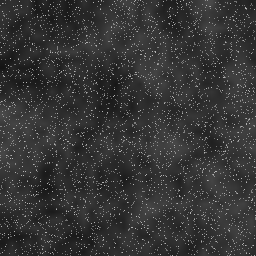
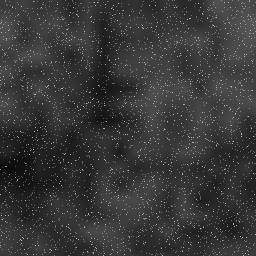
feat(palette-a): cabinet face shows live Koala Quant figures, counting up; inked writing
- Since launch, 7 / 30 days, max drawdown, NAV, last settled day, days running, the
  7-day trend and the month's daily results come from the public product (last known
  figures until it loads); figures count up as they appear.
- Printed dock uses the app's own quant icon (candlestick), in ink.
- Writing sits in the paper: fibre displacement, softened to the photo, a faint bleed,
  uneven pressure.

diff --git a/components/screens/CabinetFace.tsx b/components/screens/CabinetFace.tsx
@@ -1,8 +1,10 @@
 'use client'
 
 import { useEffect, useLayoutEffect, useRef, useState } from 'react'
-import { ChartColumn, ChartPie, ChevronLeft, ChevronRight, House, Wifi } from 'lucide-react'
+import { ChartCandlestick, ChartNoAxesColumnIncreasing, ChartPie, ChevronLeft, ChevronRight, House, Wifi } from 'lucide-react'
 import type { AppLocale } from '@/lib/i18n'
+import { useQuantProducts, type QuantProduct } from '@/lib/api/quant'
+import { localToday } from '@/lib/quant-view-model'
 import RwaLogoMark from '../rwa-logo'
 import styles from './P02-Login.module.css'
 
@@ -33,6 +35,46 @@ function quadMatrix(q: [number, number][], W: number, H: number) {
   return `matrix3d(${a / W},${d / W},0,${g / W},${b / H},${e / H},0,${h / H},0,0,1,0,${x0},${y0},0,1)`
 }
 
+/** What the face shows, from the live product (public, no account needed). Until it loads, the last known figures. */
+type View = { since: number; d7: number; d30: number; dd: number; nav: number; navDate: string; today: string; days: number; daily: Map<string, number>; chart: { date: string; index: number }[] }
+const SNAPSHOT: View = {
+  since: 17.26, d7: 3, d30: 16.71, dd: -0.08, nav: 1.1726, navDate: '2026-10-20', today: '2026-10-25', days: 31, daily: new Map(),
+  chart: [1.138, 1.142, 1.149, 1.151, 1.158, 1.165, 1.1726].map((index, i) => ({ date: `2026-10-${14 + i}`, index })),
+}
+function quantView(product: QuantProduct | undefined): View {
+  if (!product) return SNAPSHOT
+  const p = product.performance
+  const history = [...product.history].sort((a, b) => a.tradeDate.localeCompare(b.tradeDate))
+  const chart = history.slice(-7).map(point => ({ date: point.tradeDate, index: Number(point.indexAfter) }))
+  return {
+    since: p.sinceInceptionPct ?? 0, d7: p.last7d.pct ?? 0, d30: p.last30d.pct ?? 0, dd: p.maxDrawdownPct ?? 0,
+    nav: Number(p.index), navDate: p.lastSettledDate ?? '', today: localToday(product.timezone), days: p.days,
+    daily: new Map(history.map(point => [point.tradeDate, Number(point.netReturnPct)])),
+    chart: chart.length > 1 ? chart : SNAPSHOT.chart,
+  }
+}
+
+/** Counts up from zero to a figure whenever `run` turns on or the figure changes (eased, about a second and a half). */
+function useCount(target: number, run = true, ms = 1400) {
+  const [value, setValue] = useState(0)
+  useEffect(() => {
+    if (!run) return
+    if (matchMedia('(prefers-reduced-motion: reduce)').matches) { setValue(target); return }
+    let frame = 0
+    const start = performance.now()
+    const step = (now: number) => {
+      const t = Math.min(1, (now - start) / ms)
+      setValue(target * (1 - Math.pow(1 - t, 3)))
+      if (t < 1) frame = requestAnimationFrame(step)
+    }
+    frame = requestAnimationFrame(step)
+    return () => cancelAnimationFrame(frame)
+  }, [target, run, ms])
+  return value
+}
+const signed = (value: number, digits = 2) => `${value >= .005 ? '+' : value <= -.005 ? '-' : ''}${Math.abs(value).toFixed(digits)}%`
+const monthDay = (date: string) => date.slice(5)
+
 const polar = (r: number, deg: number, cx = 100, cy = 104) => {
   const a = ((deg - 90) * Math.PI) / 180
   return [cx + Math.cos(a) * r, cy + Math.sin(a) * r].map(v => v.toFixed(1))
@@ -50,8 +92,9 @@ const TRACK = Array.from({ length: 120 }, (_, i) => {
   return `M${x1} ${y1} L${x2} ${y2}`
 }).join(' ')
 
-/** The Koala Quant watch, in ink, with its registers ticking and a marker running round the ring. Figures as in the app. */
-function DialDrawing({ zh }: { zh: boolean }) {
+/** The Koala Quant watch, in ink, with its registers ticking, a marker running round the ring and the live figures. */
+function DialDrawing({ zh, view }: { zh: boolean; view: View }) {
+  const since = useCount(view.since), d7 = useCount(view.d7), d30 = useCount(view.d30), dd = useCount(view.dd)
   return <svg className={styles.kDial} viewBox="0 0 200 204" aria-hidden="true">
     <path d="M93 0 h14 v9 h-14 Z M96 3 v3 M100 3 v3 M104 3 v3 M97 9 v6 M103 9 v6" />
     <path d="M166 30 l8 -8 l6 6 l-8 8 Z M168 38 l-4 4" />
@@ -62,91 +105,103 @@ function DialDrawing({ zh }: { zh: boolean }) {
     <circle cx="100" cy="104" r="62" opacity=".55" /><circle cx="100" cy="104" r="58" strokeDasharray="1.2 2.6" opacity=".45" />
     <circle cx="100" cy="36" r="6" /><path d="M97 34 h6 l-3 4 Z" />
     <rect x="64" y="51" width="72" height="23" rx="3" /><rect x="66.5" y="53.5" width="67" height="18" rx="2" opacity=".4" />
-    <text x="100" y="68" textAnchor="middle" className={styles.kMono}>+17.26%</text>
+    <text x="100" y="68" textAnchor="middle" className={styles.kMono}>{signed(since)}</text>
     <text x="100" y="83" textAnchor="middle" className={styles.kTiny}>{zh ? '成立以来' : 'SINCE LAUNCH'}</text>
     <text x="100" y="97" textAnchor="middle" className={styles.kName}>{zh ? '考 拉 量 化' : 'KOALA QUANT'}</text>
     <circle cx="66" cy="124" r="19" /><circle cx="66" cy="124" r="15" strokeDasharray="1 2.4" opacity=".6" />
     <g className={styles.kNeedleA}><path d="M66 124 L72 110" /></g><circle cx="66" cy="124" r="1.6" className={styles.kFill} />
     <text x="66" y="113" textAnchor="middle" className={styles.kTiny}>{zh ? '7日' : '7D'}</text>
-    <text x="66" y="136" textAnchor="middle" className={styles.kMonoS}>+3.00%</text>
+    <text x="66" y="136" textAnchor="middle" className={styles.kMonoS}>{signed(d7)}</text>
     <circle cx="134" cy="124" r="19" /><circle cx="134" cy="124" r="15" strokeDasharray="1 2.4" opacity=".6" />
     <g className={styles.kNeedleB}><path d="M134 124 L124 113" /></g><circle cx="134" cy="124" r="1.6" className={styles.kFill} />
     <text x="134" y="113" textAnchor="middle" className={styles.kTiny}>{zh ? '30日' : '30D'}</text>
-    <text x="134" y="136" textAnchor="middle" className={styles.kMonoS}>+16.71%</text>
+    <text x="134" y="136" textAnchor="middle" className={styles.kMonoS}>{signed(d30)}</text>
     <text x="100" y="116" textAnchor="middle" className={styles.kTiny}>{zh ? '最大回撤' : 'MAX DD'}</text>
     <path d="M90 132 a10 10 0 0 1 20 0" /><g className={styles.kNeedleC}><path d="M100 132 L93 128" /></g><circle cx="100" cy="132" r="1.4" className={styles.kFill} />
-    <text x="100" y="141" textAnchor="middle" className={styles.kMonoS}>-0.08%</text>
-    <rect x="74" y="147" width="52" height="13" rx="2" /><text x="100" y="156.5" textAnchor="middle" className={styles.kMonoS}>2026.10.25</text>
+    <text x="100" y="141" textAnchor="middle" className={styles.kMonoS}>{signed(dd)}</text>
+    <rect x="74" y="147" width="52" height="13" rx="2" /><text x="100" y="156.5" textAnchor="middle" className={styles.kMonoS}>{view.today.split('-').join('.')}</text>
     <circle cx="64" cy="153.5" r="5" /><path d="M65.5 151 l-2.5 2.5 l2.5 2.5" /><circle cx="136" cy="153.5" r="5" opacity=".5" />
   </svg>
 }
 
-type KCopy = { title: string; overview: string; mine: string; principal: string; daily: string; pending: string; notYet: string; nav: string; days: [string, string, string]; quant: string; week: string[]; due: string }
+type KCopy = { title: string; overview: string; mine: string; nav: string; latest: string; settled: string; running: string; dayUnit: string; days: [string, string, string]; quant: string; week: string[]; due: string }
 const K: Record<'zh' | 'en', KCopy> = {
-  zh: { title: '考拉量化', overview: '总览', mine: '我的', principal: '当前本金 USDT', daily: '最近一日净收益', pending: '待处理', notYet: '尚未开始结算', nav: '净值走势', days: ['7天', '30天', '全部'], quant: '量化',
+  zh: { title: '考拉量化', overview: '总览', mine: '我的', nav: '净值走势', latest: '最新净值', settled: '最近结算', running: '已运行', dayUnit: '天', days: ['7天', '30天', '全部'], quant: '量化',
     week: ['一', '二', '三', '四', '五', '六', '日'], due: '待结算' },
-  en: { title: 'Koala Quant', overview: 'Overview', mine: 'Mine', principal: 'Principal USDT', daily: 'Last day net', pending: 'Pending', notYet: 'Not settled yet', nav: 'NAV trend', days: ['7D', '30D', 'All'], quant: 'Quant',
+  en: { title: 'Koala Quant', overview: 'Overview', mine: 'Mine', nav: 'NAV trend', latest: 'Latest NAV', settled: 'Last settled', running: 'Running', dayUnit: 'days', days: ['7D', '30D', 'All'], quant: 'Quant',
     week: ['M', 'T', 'W', 'T', 'F', 'S', 'S'], due: 'Due' },
 }
 
-/** October 2026 as the app's earnings calendar shows it: daily results to the 20th, the 25th waiting to settle. */
-const OCT: (string | null)[] = ['+0.91', '+0.06', '-0.04', '+0.83', '+0.97', '+0.16', '+0.82', '+0.05', '+0.05', '+0.93', '+0.97', '-0.04', '+0.30', '+0.82',
-  '+0.04', '+0.51', '+0.02', '+0.71', '+0.37', '+0.50', null, null, null, null, null, null, null, null, null, null, null]
-
-function Calendar({ k }: { k: KCopy }) {
+/** The month of today (product timezone), as the app's earnings calendar draws it: each settled day's net result, a dash
+ * for an ended day without one, today waiting to settle, later days pale. */
+function Calendar({ k, view }: { k: KCopy; view: View }) {
+  const [year, month] = view.today.split('-').map(Number)
+  const lead = (new Date(Date.UTC(year, month - 1, 1)).getUTCDay() + 6) % 7
+  const count = new Date(Date.UTC(year, month, 0)).getUTCDate()
+  const today = Number(view.today.slice(8))
   return <div className={styles.kCal}>
-    <div className={styles.kCalHead}><ChevronLeft strokeWidth={1.6} /><b>2026 <i>/</i> 10</b><ChevronRight strokeWidth={1.6} opacity={.4} /></div>
+    <div className={styles.kCalHead}><ChevronLeft strokeWidth={1.6} /><b>{year} <i>/</i> {month}</b><ChevronRight strokeWidth={1.6} opacity={.4} /></div>
     <div className={styles.kCalWeek}>{k.week.map((d, i) => <span key={i}>{d}</span>)}</div>
     <div className={styles.kCalDays}>
-      {[0, 1, 2].map(i => <span key={`e${i}`} />)}
-      {OCT.map((v, i) => {
+      {Array.from({ length: lead }, (_, i) => <span key={`e${i}`} />)}
+      {Array.from({ length: count }, (_, i) => {
         const day = i + 1
-        if (day === 25) return <span key={day} className={styles.kDue}><b>25</b><small>{k.due}</small></span>
-        return <span key={day} data-off={v === null || undefined}><b>{day}</b><small>{v === null ? (day < 25 ? '–' : '') : `${v}%`}</small></span>
+        const value = view.daily.get(`${view.today.slice(0, 8)}${String(day).padStart(2, '0')}`)
+        if (day === today) return <span key={day} className={styles.kDue}><b>{day}</b><small>{k.due}</small></span>
+        return <span key={day} data-off={value === undefined || undefined}><b>{day}</b><small>{value !== undefined ? signed(value) : day < today ? '–' : ''}</small></span>
       })}
     </div>
   </div>
 }
 
 /**
- * The Koala Quant page as in the app, written onto the cabinet's face in the guide's ink; only the logo keeps its
- * colours. The overview / mine key stands off the face, and every few seconds it slides over: Mine shows the
- * earnings calendar, Overview the figures and the trend. The registers tick and a marker runs round the ring.
+ * The Koala Quant page as in the app, written onto the cabinet's face in the guide's ink, with the product's live
+ * figures (they count up as they appear); only the logo keeps its colours. The overview / mine key stands off the
+ * face, and every few seconds it slides over: Mine shows the earnings calendar, Overview the figures and the trend.
  */
 function KoalaPrint({ locale }: { locale: AppLocale }) {
   const k = K[locale === 'zh-CN' ? 'zh' : 'en']
+  const products = useQuantProducts()
+  const view = quantView(products.data?.[0])
   const [tab, setTab] = useState(0)
   useEffect(() => {
     if (matchMedia('(prefers-reduced-motion: reduce)').matches) return
     const timer = setInterval(() => setTab(value => 1 - value), 5200)
     return () => clearInterval(timer)
   }, [])
+  const nav = useCount(view.nav, tab === 0, 1200), days = useCount(view.days, tab === 0, 1200)
+  const ys = view.chart.map(point => point.index)
+  const lo = Math.min(...ys), hi = Math.max(...ys), span = hi - lo || 1
+  const pts = view.chart.map((point, i) => [24 + (192 * i) / (view.chart.length - 1), 76 - ((point.index - lo) / span) * 62] as const)
+  const line = pts.map(([x, y], i) => `${i ? 'L' : 'M'}${x.toFixed(1)} ${y.toFixed(1)}`).join(' ')
+  const end = pts[pts.length - 1]
+  const labels = [0, Math.floor((pts.length - 1) / 2), pts.length - 1].filter((i, n, all) => all.indexOf(i) === n)
   return <div className={styles.kPrint} data-tab={tab}>
     <div className={`${styles.kInk} ${styles.kStatus}`}><b><Clock /></b><span><i className={styles.kSig}><i /><i /><i /><i /></i><Wifi strokeWidth={2.2} /><i className={styles.kBatt}><i /></i></span></div>
     <div className={`${styles.kInk} ${styles.kHead}`}><RwaLogoMark width={30} height={17} label="" /><b>{k.title}</b></div>
-    <div className={styles.kInk}><DialDrawing zh={locale === 'zh-CN'} /></div>
+    <div className={styles.kInk}><DialDrawing zh={locale === 'zh-CN'} view={view} /></div>
     <div className={styles.kSeg}><i className={styles.kKey} /><b className={styles.kInk}>{k.overview}</b><b className={styles.kInk}>{k.mine}</b></div>
     <div className={styles.kPanels}>
       <div className={`${styles.kInk} ${styles.kPanel}`} data-on={tab === 0 || undefined}>
         <div className={styles.kStats}>
-          <span><small>{k.principal}</small><b>3,500.00</b></span>
-          <span><small>{k.daily}</small><b>—</b><small>{k.notYet}</small></span>
-          <span><small>{k.pending}</small><b>0</b></span>
+          <span><small>{k.latest}</small><b>{nav.toFixed(4)}</b></span>
+          <span><small>{k.settled}</small><b>{view.navDate ? monthDay(view.navDate) : '—'}</b></span>
+          <span><small>{k.running}</small><b>{Math.round(days)} <small>{k.dayUnit}</small></b></span>
         </div>
-        <div className={styles.kNavHead}><b>{k.nav}</b><span><small>10-20</small><strong>1.1726</strong></span></div>
+        <div className={styles.kNavHead}><b>{k.nav}</b><span><small>{view.navDate ? monthDay(view.navDate) : ''}</small><strong>{nav.toFixed(4)}</strong></span></div>
         <div className={styles.kDays}><b>{k.days[0]}</b><span>{k.days[1]}</span><span>{k.days[2]}</span></div>
         <svg className={styles.kChart} viewBox="0 0 220 90" aria-hidden="true">
-          <path d="M22 14 H218 M22 44 H218 M22 74 H218" opacity=".2" strokeDasharray="2 3" />
-          <text x="0" y="16">1.173</text><text x="0" y="46">1.156</text><text x="0" y="76">1.138</text>
-          <path className={styles.kArea} d="M24 76 C40 66 52 58 70 60 S100 54 118 50 S146 52 160 42 S196 24 216 14 V80 H24 Z" />
-          <path className={styles.kLine} pathLength={1} d="M24 76 C40 66 52 58 70 60 S100 54 118 50 S146 52 160 42 S196 24 216 14" />
-          <circle cx="216" cy="14" r="3" /><path d="M216 18 V80" strokeDasharray="1.5 2.5" opacity=".6" />
-          <text x="20" y="89">10-13</text><text x="64" y="89">10-15</text><text x="124" y="89">10-17</text><text x="194" y="89">10-20</text>
+          <path d="M22 14 H218 M22 45 H218 M22 76 H218" opacity=".2" strokeDasharray="2 3" />
+          <text x="0" y="16">{hi.toFixed(3)}</text><text x="0" y="47">{((lo + hi) / 2).toFixed(3)}</text><text x="0" y="78">{lo.toFixed(3)}</text>
+          <path className={styles.kArea} d={`${line} V80 H24 Z`} />
+          <path key={`${tab}-${line}`} className={styles.kLine} pathLength={1} d={line} />
+          <circle cx={end[0]} cy={end[1]} r="3" /><path d={`M${end[0]} ${end[1] + 4} V80`} strokeDasharray="1.5 2.5" opacity=".6" />
+          {labels.map(i => <text key={i} x={Math.min(200, pts[i][0] - 8)} y="89">{monthDay(view.chart[i].date)}</text>)}
         </svg>
       </div>
-      <div className={`${styles.kInk} ${styles.kPanel}`} data-on={tab === 1 || undefined}><Calendar k={k} /></div>
+      <div className={`${styles.kInk} ${styles.kPanel}`} data-on={tab === 1 || undefined}><Calendar k={k} view={view} /></div>
     </div>
-    <div className={`${styles.kInk} ${styles.kDock}`}><span><House strokeWidth={1.6} /><ChartColumn strokeWidth={1.6} /><b><RwaLogoMark width={13} height={8} label="" />{k.quant}</b><ChartPie strokeWidth={1.6} /></span><i /></div>
+    <div className={`${styles.kInk} ${styles.kDock}`}><span><House strokeWidth={1.6} /><ChartNoAxesColumnIncreasing strokeWidth={1.6} /><b><ChartCandlestick strokeWidth={1.8} />{k.quant}</b><ChartPie strokeWidth={1.6} /></span><i /></div>
   </div>
 }
 
@@ -178,6 +233,16 @@ export function CabinetScene({ locale, night }: { locale: AppLocale; night: bool
     return () => observer.disconnect()
   }, [])
   return <div className={styles.cabStage} ref={stage} aria-hidden="true">
+    {/* Ink on paper: edges pushed about by the paper's fibres (a noise displacement), softened to the photo's own
+        sharpness, with a faint bleed into the paper around each stroke, so the writing sits in the surface. */}
+    <svg className={styles.cabDefs} aria-hidden="true"><filter id="cab-ink" x="-3%" y="-3%" width="106%" height="106%" colorInterpolationFilters="sRGB">
+      <feTurbulence type="fractalNoise" baseFrequency=".7" numOctaves="2" seed="7" result="fibre" />
+      <feDisplacementMap in="SourceGraphic" in2="fibre" scale="1.7" xChannelSelector="R" yChannelSelector="G" result="pushed" />
+      <feGaussianBlur in="pushed" stdDeviation=".45" result="ink" />
+      <feGaussianBlur in="pushed" stdDeviation="1.4" result="spread" />
+      <feComponentTransfer in="spread" result="bleed"><feFuncA type="linear" slope=".22" /></feComponentTransfer>
+      <feMerge><feMergeNode in="bleed" /><feMergeNode in="ink" /></feMerge>
+    </filter></svg>
     <img className={styles.cabPhoto} src={`${art}.webp`} alt="" draggable={false} />
     <svg className={styles.cabSide} viewBox="0 0 1024 1536" preserveAspectRatio="none">
       <g transform="matrix(.78 .25 0 1 616 196)">

diff --git a/components/screens/P02-Login.module.css b/components/screens/P02-Login.module.css
@@ -748,7 +748,7 @@
 .root[data-auth-theme='cool'] .cabFace { --ink: #c4c7cd; }
 .kPrint { position: absolute; inset: 0; display: flex; flex-direction: column; padding: 16px 24px 0; color: var(--ink);
   font-family: var(--font-geist-sans, system-ui), 'PingFang SC', 'Microsoft YaHei', sans-serif; font-size: 12px; line-height: 1.3; }
-.kInk { mix-blend-mode: multiply; filter: blur(.22px);
+.kInk { mix-blend-mode: multiply; filter: url(#cab-ink);
   -webkit-mask-image: url('/media/palette-a/ink-grain.png'); mask-image: url('/media/palette-a/ink-grain.png'); -webkit-mask-size: 180px; mask-size: 180px; }
 .root[data-auth-theme='cool'] .kInk { mix-blend-mode: screen; }
 .kPrint svg { fill: none; stroke: var(--ink); stroke-width: 1.1; stroke-linecap: round; stroke-linejoin: round; }
@@ -842,3 +842,7 @@
 .cabFoot { display: flex; justify-content: center; align-items: center; gap: 6px; margin-top: 6px; }
 :global(html) .root.root.root[data-auth-cabinet] .cabFoot :is(button, span) { padding: 6px 2px; border: 0; background: none; font: inherit; font-size: 11px; color: rgba(20, 26, 34, .55); cursor: pointer; }
 :global(html) .root.root.root[data-auth-cabinet][data-auth-theme='cool'] .cabFoot :is(button, span) { color: rgba(238, 241, 246, .5); }
+
+.cabDefs { position: absolute; width: 0; height: 0; overflow: hidden; }
+/* Ink, not pixels: a warm, slightly dry tone rather than flat grey. */
+.cabFace { --ink: #45413b; }
